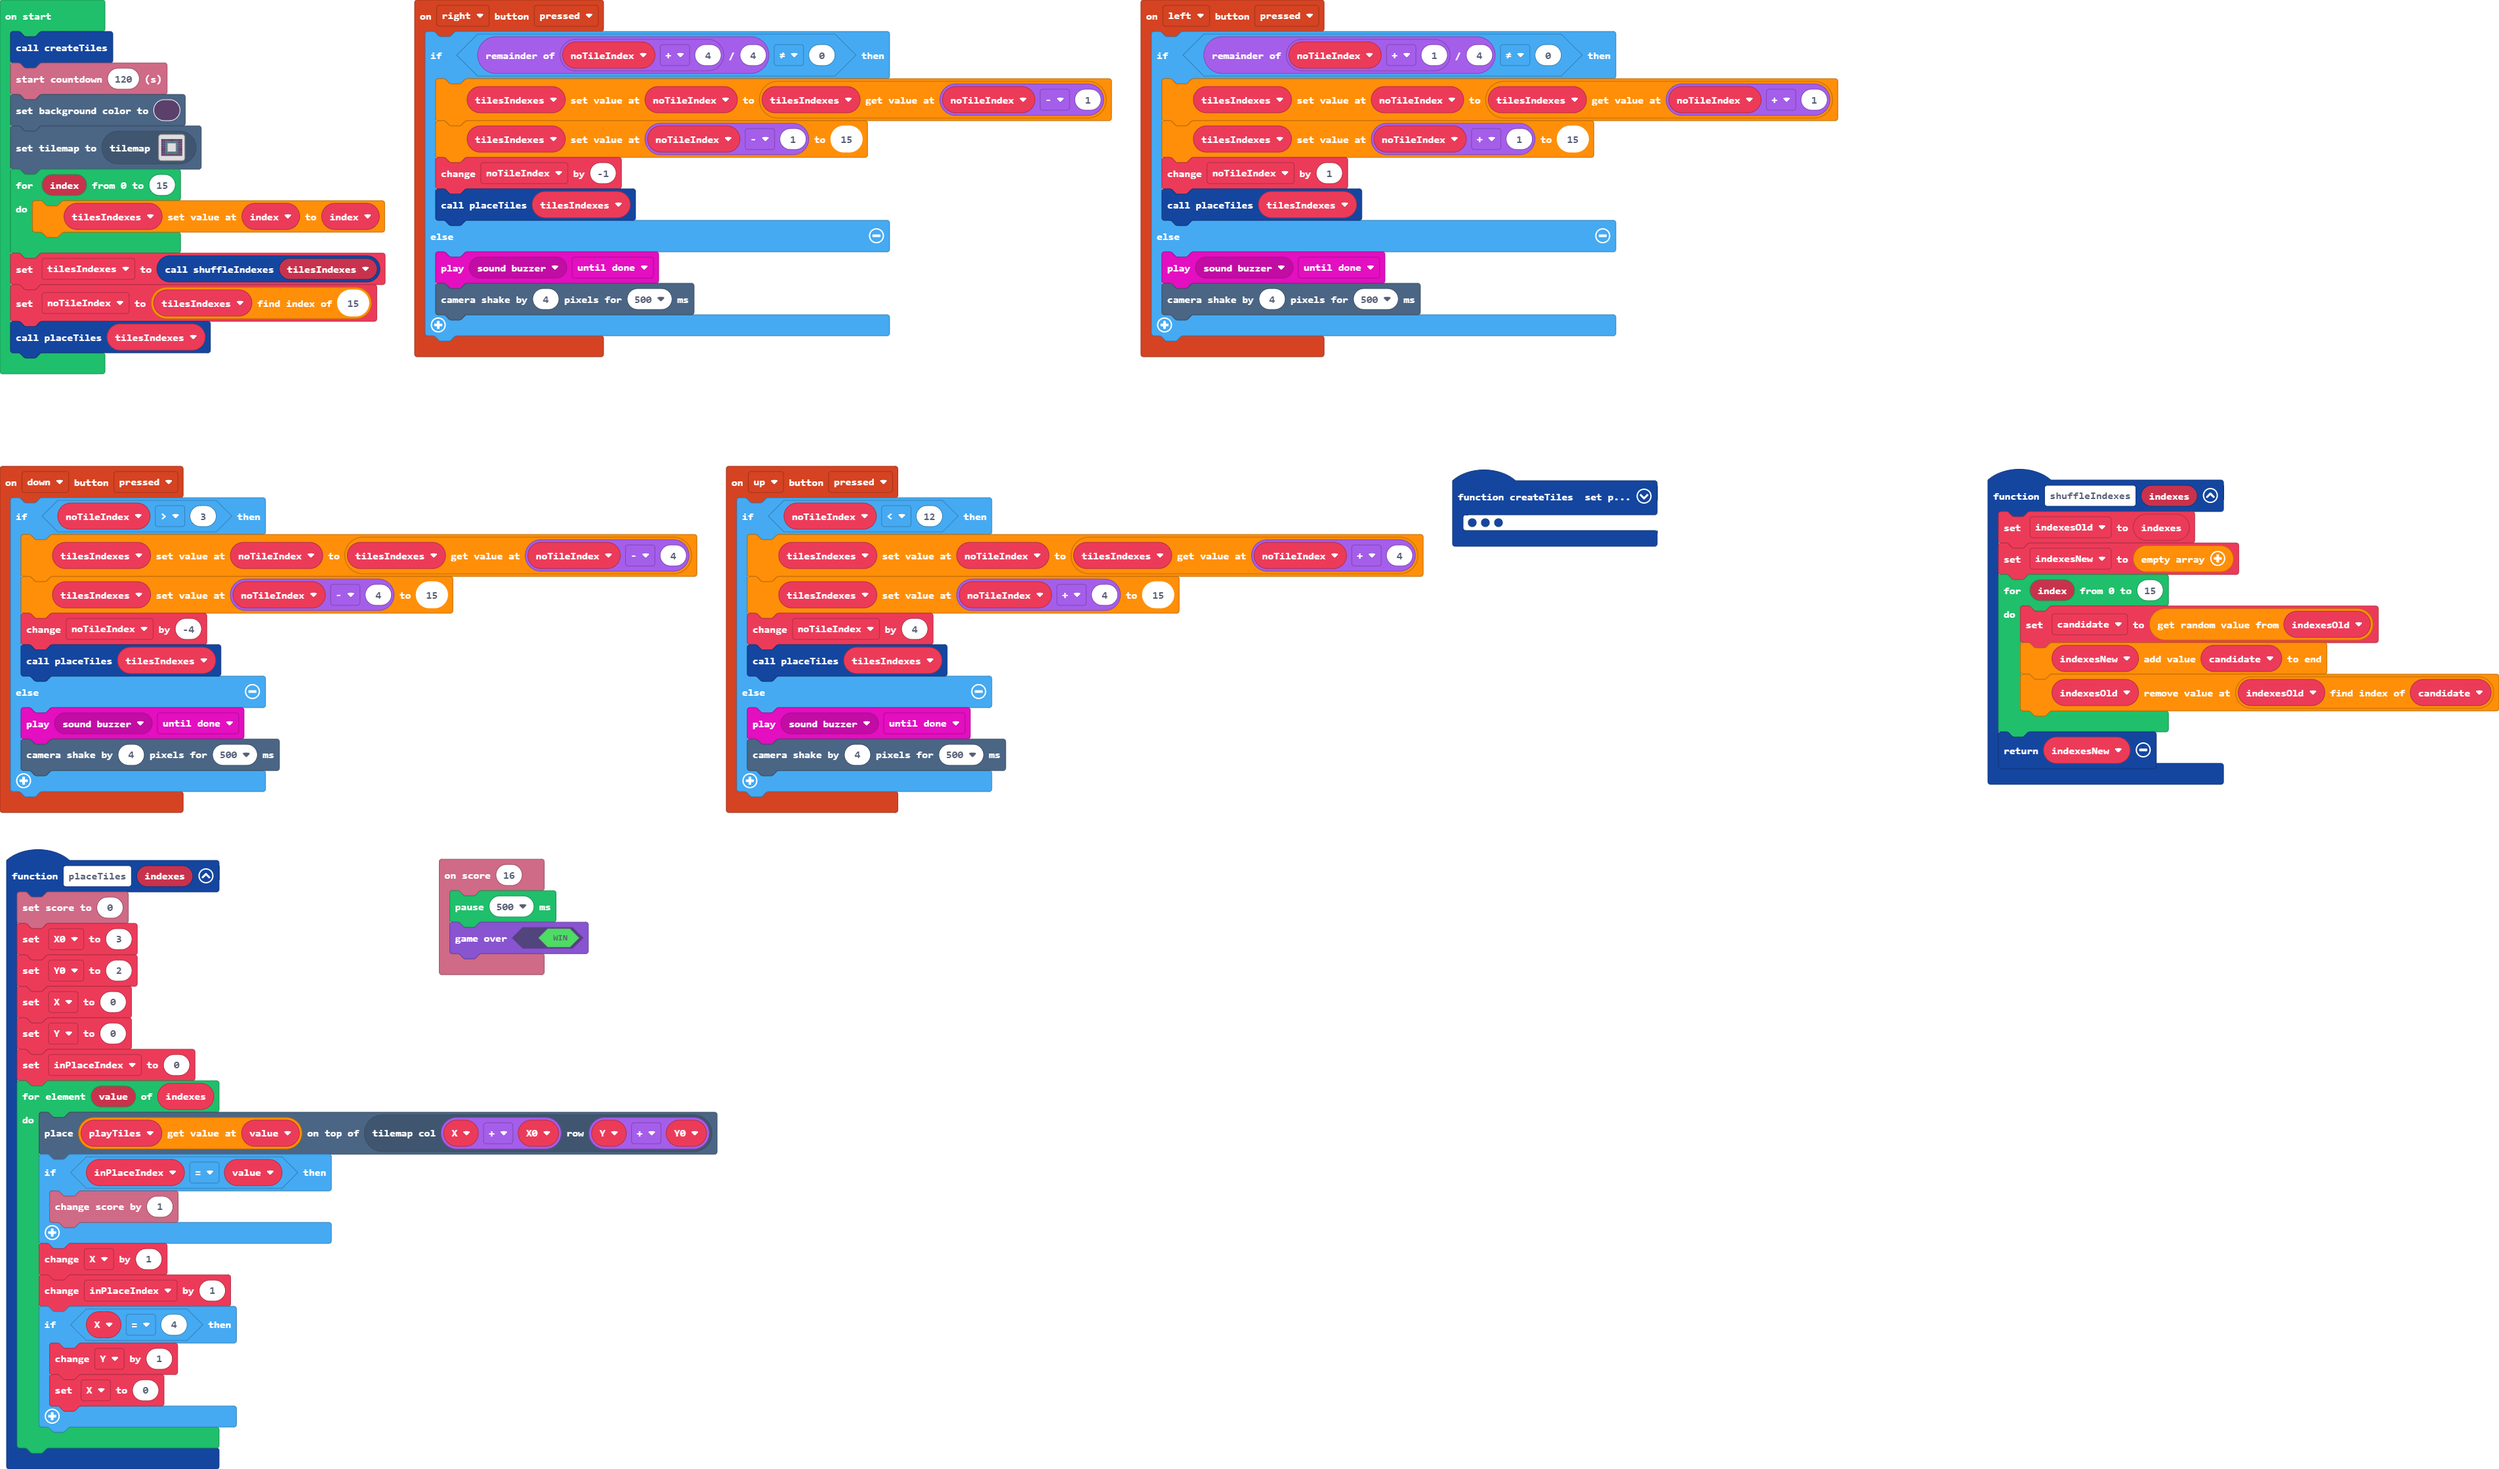
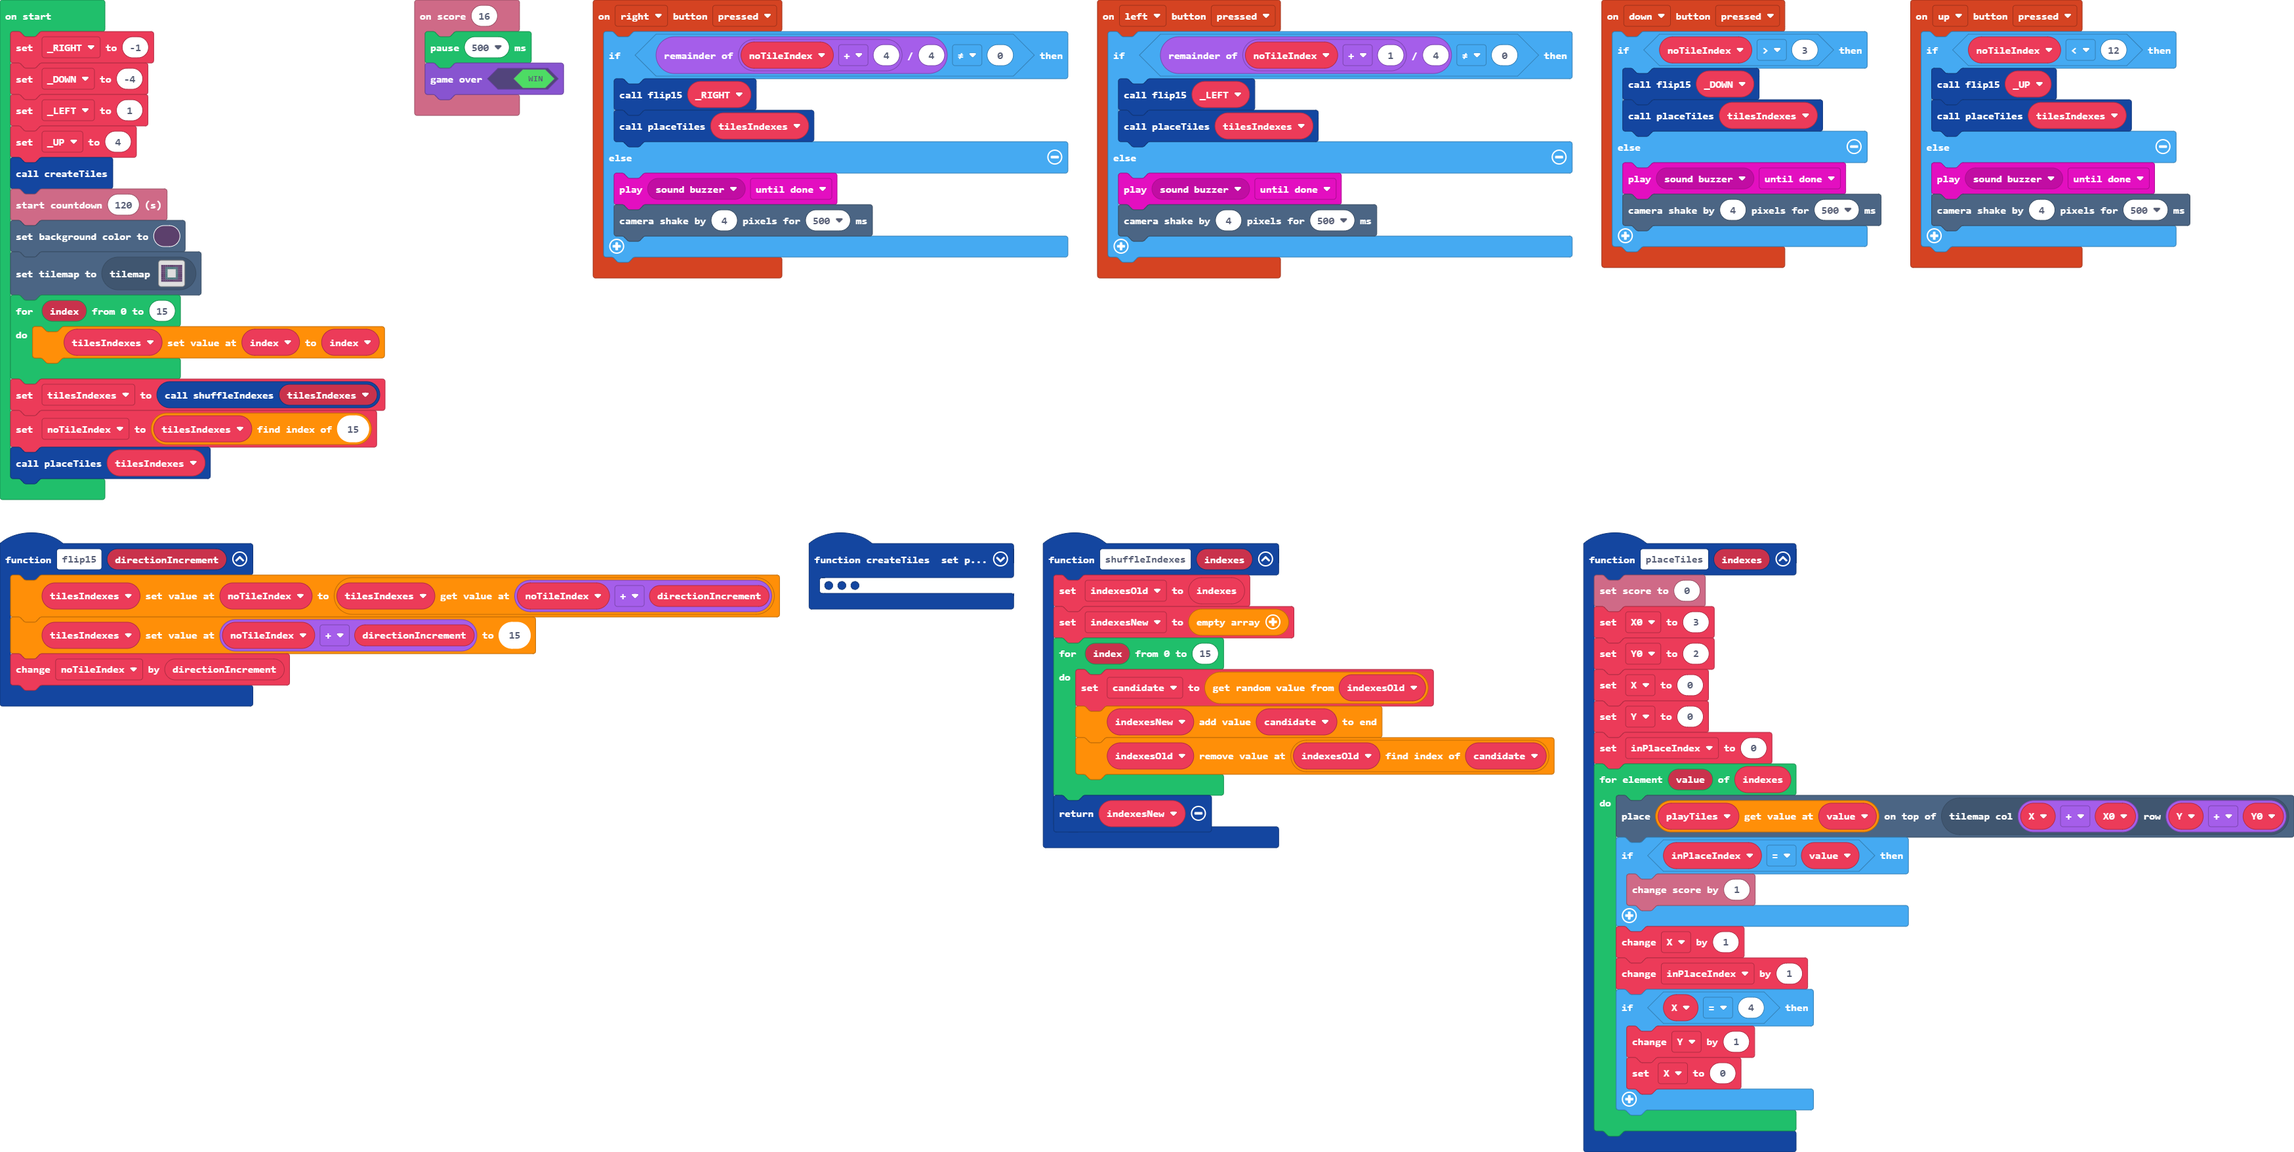
function for manual flip

diff --git a/main.ts b/main.ts
@@ -1,11 +1,14 @@
 namespace SpriteKind {
     export const Tile = SpriteKind.create()
 }
+function flip15 (directionIncrement: number) {
+    tilesIndexes[noTileIndex] = tilesIndexes[noTileIndex + directionIncrement]
+    tilesIndexes[noTileIndex + directionIncrement] = 15
+    noTileIndex += directionIncrement
+}
 controller.up.onEvent(ControllerButtonEvent.Pressed, function () {
     if (noTileIndex < 12) {
-        tilesIndexes[noTileIndex] = tilesIndexes[noTileIndex + 4]
-        tilesIndexes[noTileIndex + 4] = 15
-        noTileIndex += 4
+        flip15(_UP)
         placeTiles(tilesIndexes)
     } else {
         music.play(music.melodyPlayable(music.buzzer), music.PlaybackMode.UntilDone)
@@ -34,9 +37,7 @@ function placeTiles (indexes: number[]) {
 }
 controller.left.onEvent(ControllerButtonEvent.Pressed, function () {
     if ((noTileIndex + 1) % 4 != 0) {
-        tilesIndexes[noTileIndex] = tilesIndexes[noTileIndex + 1]
-        tilesIndexes[noTileIndex + 1] = 15
-        noTileIndex += 1
+        flip15(_LEFT)
         placeTiles(tilesIndexes)
     } else {
         music.play(music.melodyPlayable(music.buzzer), music.PlaybackMode.UntilDone)
@@ -49,9 +50,7 @@ info.onScore(16, function () {
 })
 controller.right.onEvent(ControllerButtonEvent.Pressed, function () {
     if ((noTileIndex + 4) % 4 != 0) {
-        tilesIndexes[noTileIndex] = tilesIndexes[noTileIndex - 1]
-        tilesIndexes[noTileIndex - 1] = 15
-        noTileIndex += -1
+        flip15(_RIGHT)
         placeTiles(tilesIndexes)
     } else {
         music.play(music.melodyPlayable(music.buzzer), music.PlaybackMode.UntilDone)
@@ -60,9 +59,7 @@ controller.right.onEvent(ControllerButtonEvent.Pressed, function () {
 })
 controller.down.onEvent(ControllerButtonEvent.Pressed, function () {
     if (noTileIndex > 3) {
-        tilesIndexes[noTileIndex] = tilesIndexes[noTileIndex - 4]
-        tilesIndexes[noTileIndex - 4] = 15
-        noTileIndex += -4
+        flip15(_DOWN)
         placeTiles(tilesIndexes)
     } else {
         music.play(music.melodyPlayable(music.buzzer), music.PlaybackMode.UntilDone)
@@ -110,6 +107,14 @@ let Y0 = 0
 let X0 = 0
 let noTileIndex = 0
 let tilesIndexes: number[] = []
+let _UP = 0
+let _LEFT = 0
+let _DOWN = 0
+let _RIGHT = 0
+_RIGHT = -1
+_DOWN = -4
+_LEFT = 1
+_UP = 4
 createTiles()
 info.startCountdown(120)
 scene.setBackgroundColor(12)
